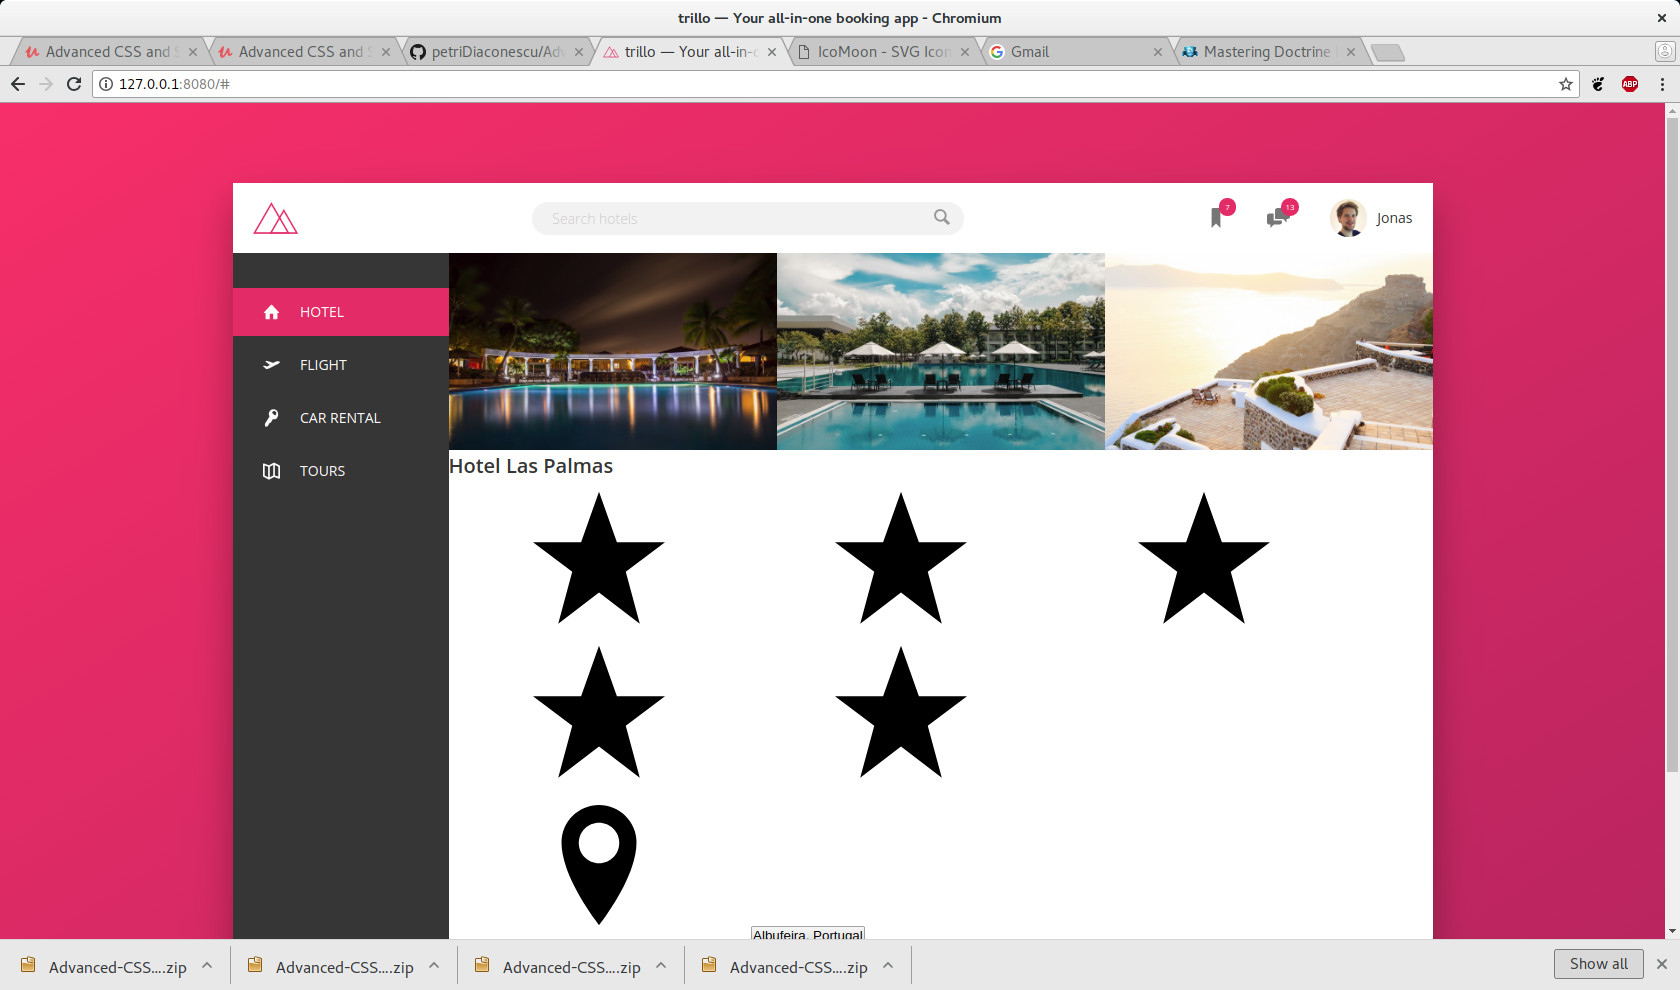
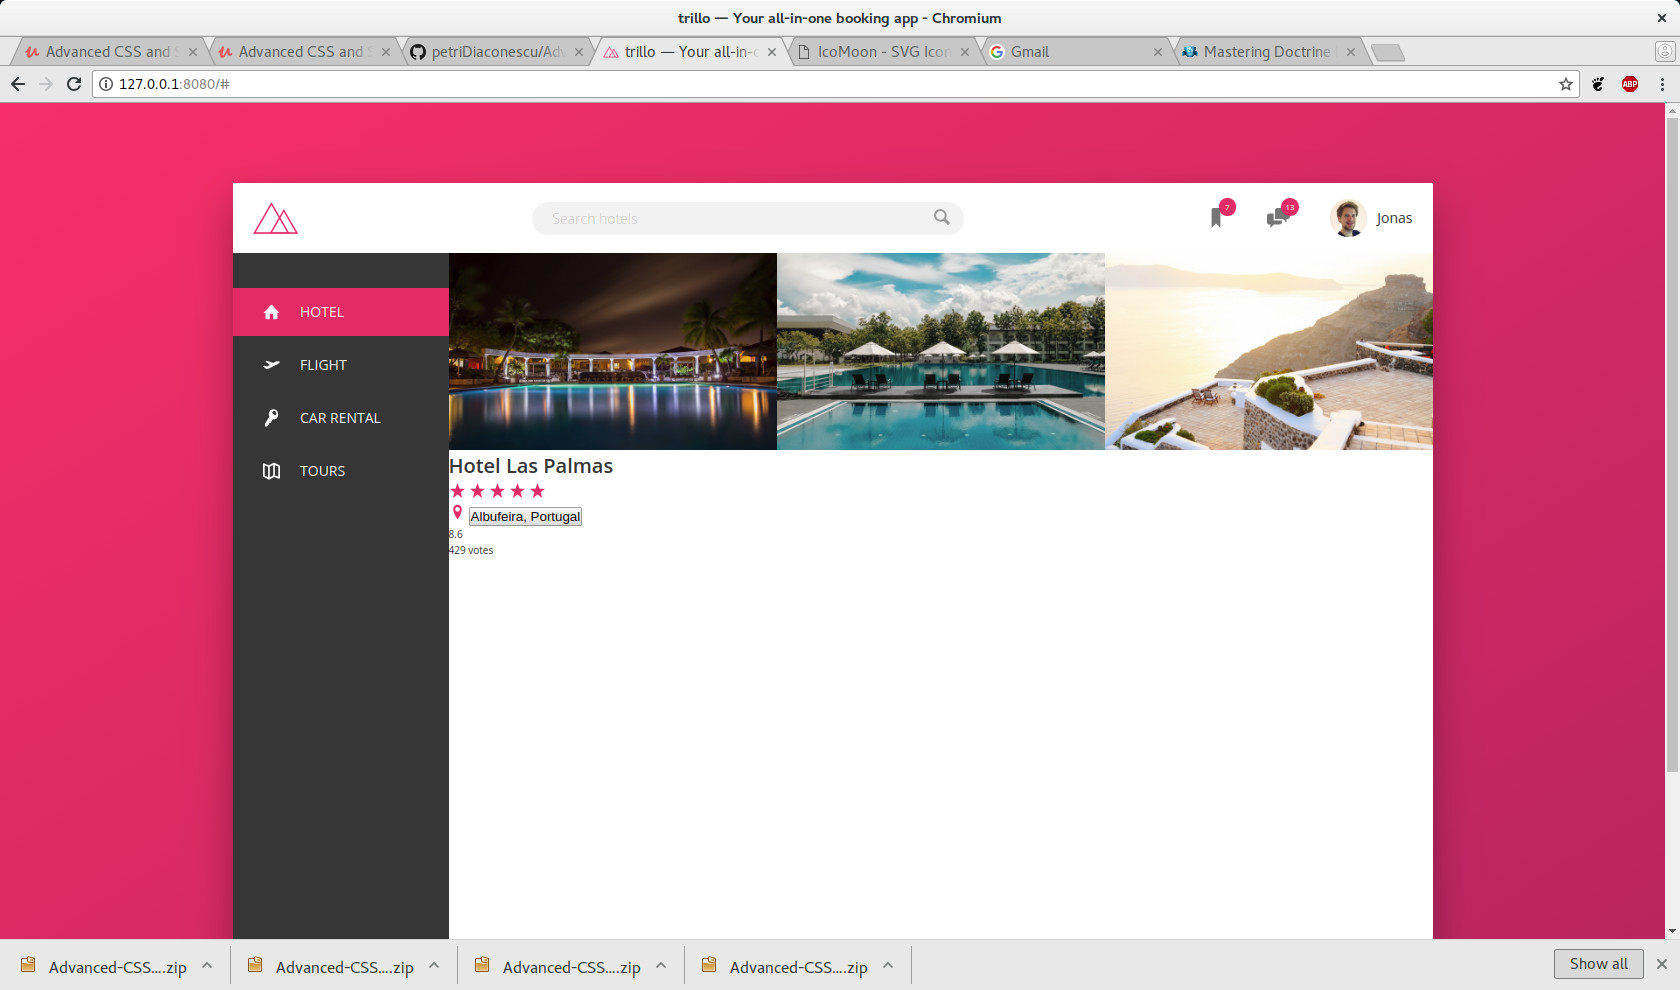
Arrange all overview elements side by side using flex

diff --git a/sass/_components.scss b/sass/_components.scss
@@ -209,6 +209,8 @@
 //HOTEL OVERVIEW
 
 .overview {
+  display: flex;
+  
   &__heading {
     
   }
